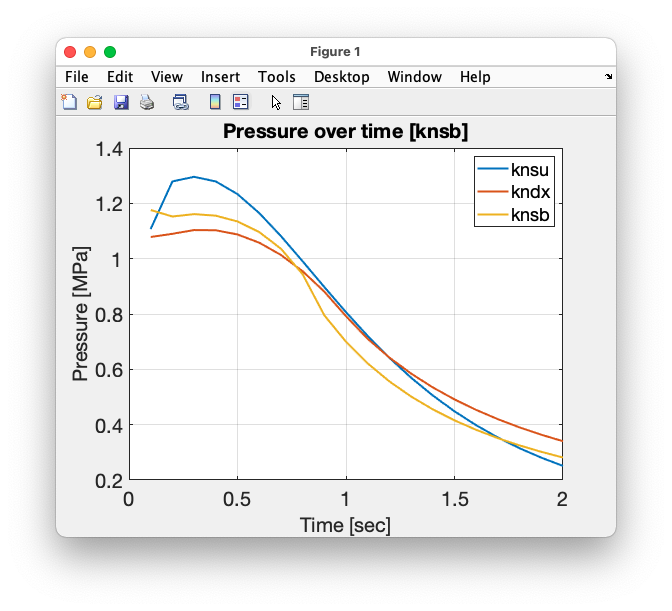
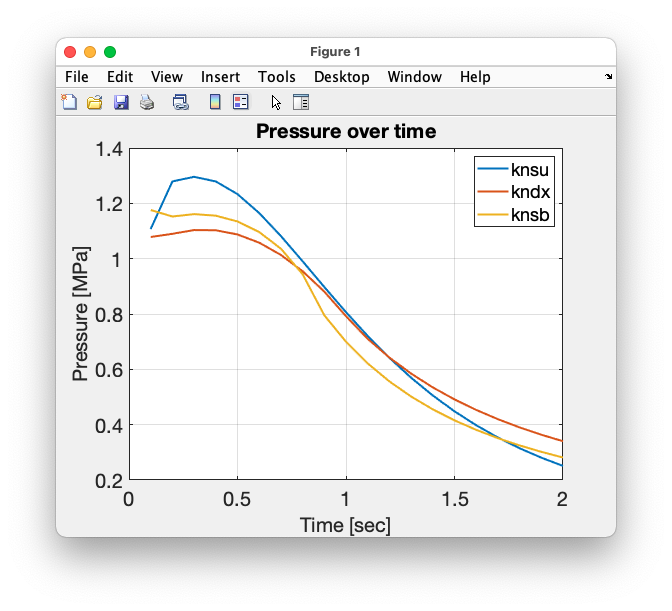
update graph

Changed region(s): [[0.3125, 0.1866, 0.7188, 0.2488]]

diff --git a/steady_state.m b/steady_state.m
@@ -76,7 +76,7 @@ end
 
 plot(ts,Ps);
 hold on;
-title(strcat('Pressure over time [',grain_name,']'));
+title('Pressure over time');
 xlabel('Time [sec]');
 ylabel('Pressure [MPa]');
 big;
